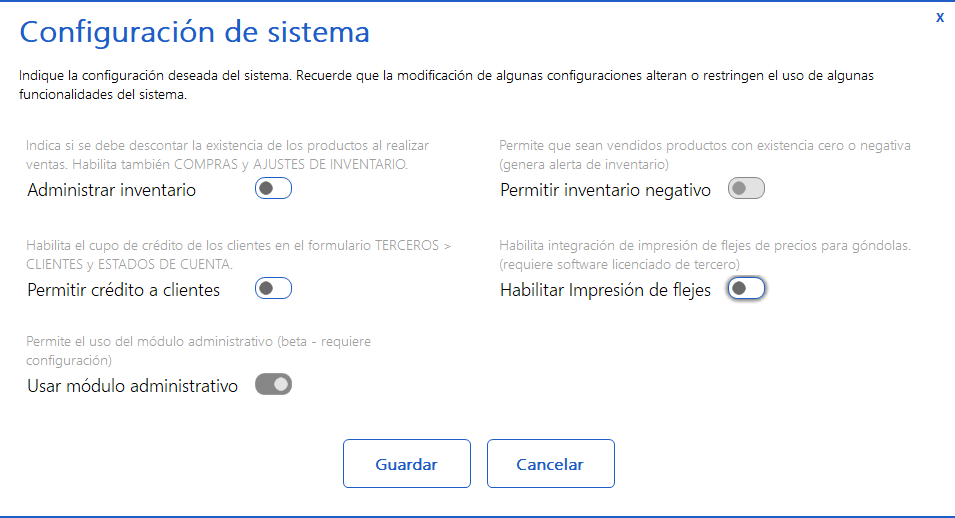
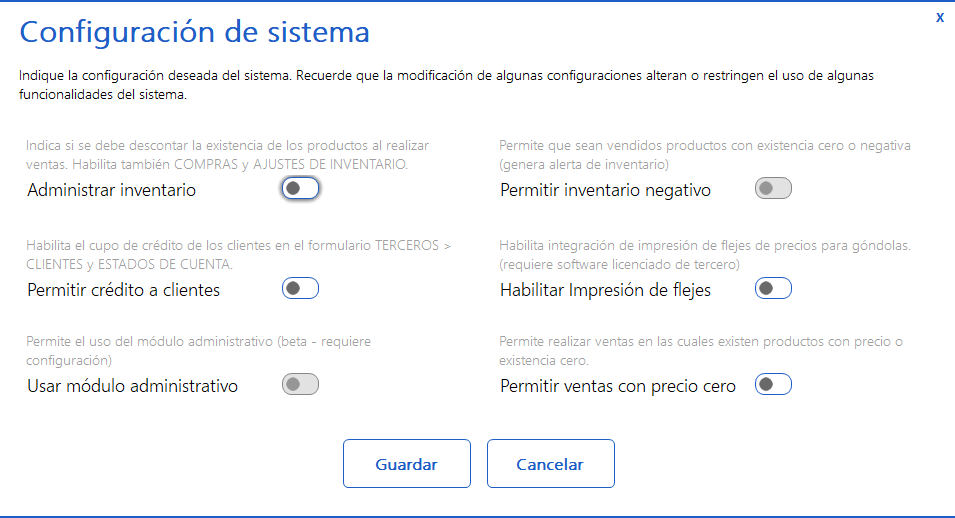
changes

diff --git a/docs/sistemas/configuracion.md b/docs/sistemas/configuracion.md
@@ -44,12 +44,30 @@ Permite la administración y configuración de la estación de trabajo.
 
 ### 3\. Productos y servicios
 
-Permite la creación de categorías y grupos para posteriormente ser asignadas a los productos/servicios según corresponda.
+Permite la creación de categorías, grupos y pestañas para posteriormente ser asignadas a los productos/servicios según corresponda.
 
 ![](/img/configuracion/configuracion_categorias_productos.png)
+
+* #### PESTAÑAS
+
+Permite la creación o modificación de pestañas para posteriormente ser asignadas a los productos según corresponda.
+
+![](/img/configuracion/configuracion_pestañas_productos.png)
+
+:::info Nota:
+El límite máximo para el nombre de una pestaña es de 20 caracteres, incluyendo espacios.
+
+:::
 
 ### 4\. Sistema
 
 Desde este panel se puede configurar la actividad de funcionalidades generales del sistema.
 
 ![](/img/configuracion/configuracion_sistema.png)
+
+
+* #### Permitir ventas con precio cero
+
+Permite bloquear/habilitar el registro de productos con precio o existencia 0 al momento de realizar una venta.
+
+![](/img/configuracion/permitir_ventas_precio_cero.png)

diff --git a/docs/facturacion/facturaElectronica.md b/docs/facturacion/facturaElectronica.md
@@ -13,7 +13,19 @@ Una vez entre al sistema, aparecerá la siguiente pestaña:
 
 **En dispositivos con panel táctil**
 
+![KódigoFuente](/img/facturacion/tactilFacturacion/tc_form_facturacion_tactil.png)
+
+**Pestañas**
+
+Al señalar una de las pestañas se mostrará todos los productos asociados a ella.
 ![KódigoFuente](/img/facturacion/tc_form_facturacion.png)
+
+:::info Nota:
+En el módulo de Sistema, Configuración, Productos y servicios se puede crear una nueva pestaña.
+
+:::
+
+---
 
 En esta pantalla, usted podrá crear la factura Electrónica, agregar productos, modificar cantidades, guardar/archivar facturas realizadas y cargar facturas anteriores que no se han finalizado.
 
@@ -113,7 +125,7 @@ Cuando se tengan registrados todos los productos, se podrá totalizar la factura
 
 ![menuPrincipal](/img/facturacion/esc.png)
 
-3\. Presionando **Ctrl + Enter ( Intro)** al mismo tiempo.
+3\. Presionando **Ctrl + Enter (Intro)** al mismo tiempo.
 
 ![menuPrincipal](/img/facturacion/ctrl_enter.png)
 

diff --git a/docs/facturacion/facturaPOS.md b/docs/facturacion/facturaPOS.md
@@ -15,6 +15,18 @@ Una vez entre al sistema, aparecerá la siguiente pestaña:
 
 ![KódigoFuente](/img/facturacion/tactilFacturacion/tc_form_facturacion_tactil.png)
 
+**Pestañas**
+
+Al señalar una de las pestañas se mostrará todos los productos asociados a ella.
+![KódigoFuente](/img/facturacion/tc_form_facturacion.png)
+
+:::info Nota:
+En el módulo de Sistema, Configuración, Productos y servicios se puede crear una nueva pestaña.
+
+:::
+
+---
+
 En esta pantalla, usted podrá crear la factura POS, agregar productos, modificar cantidades, guardar/archivar facturas realizadas y cargar facturas anteriores que no se han finalizado.
 
 ## Cómo registrar un producto
